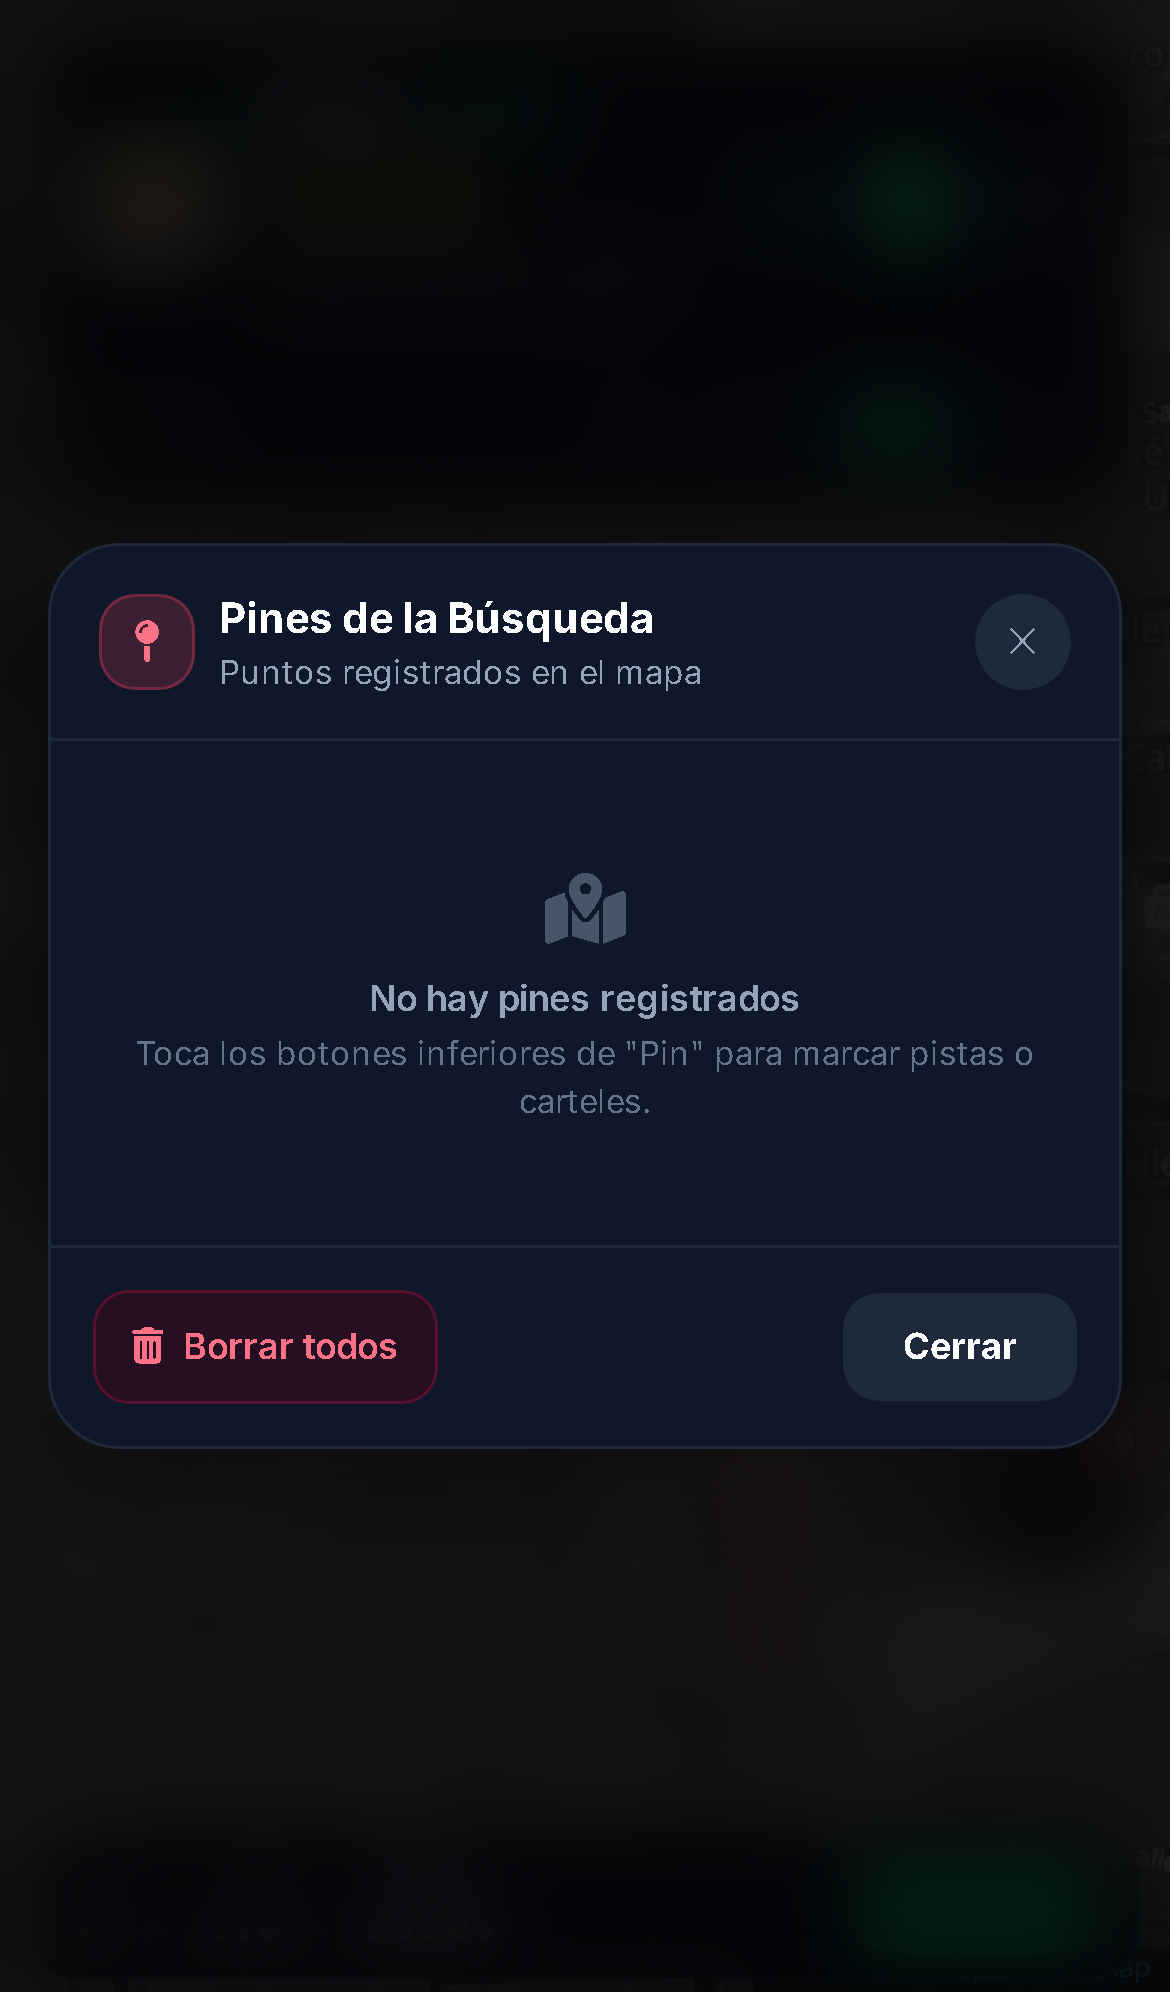
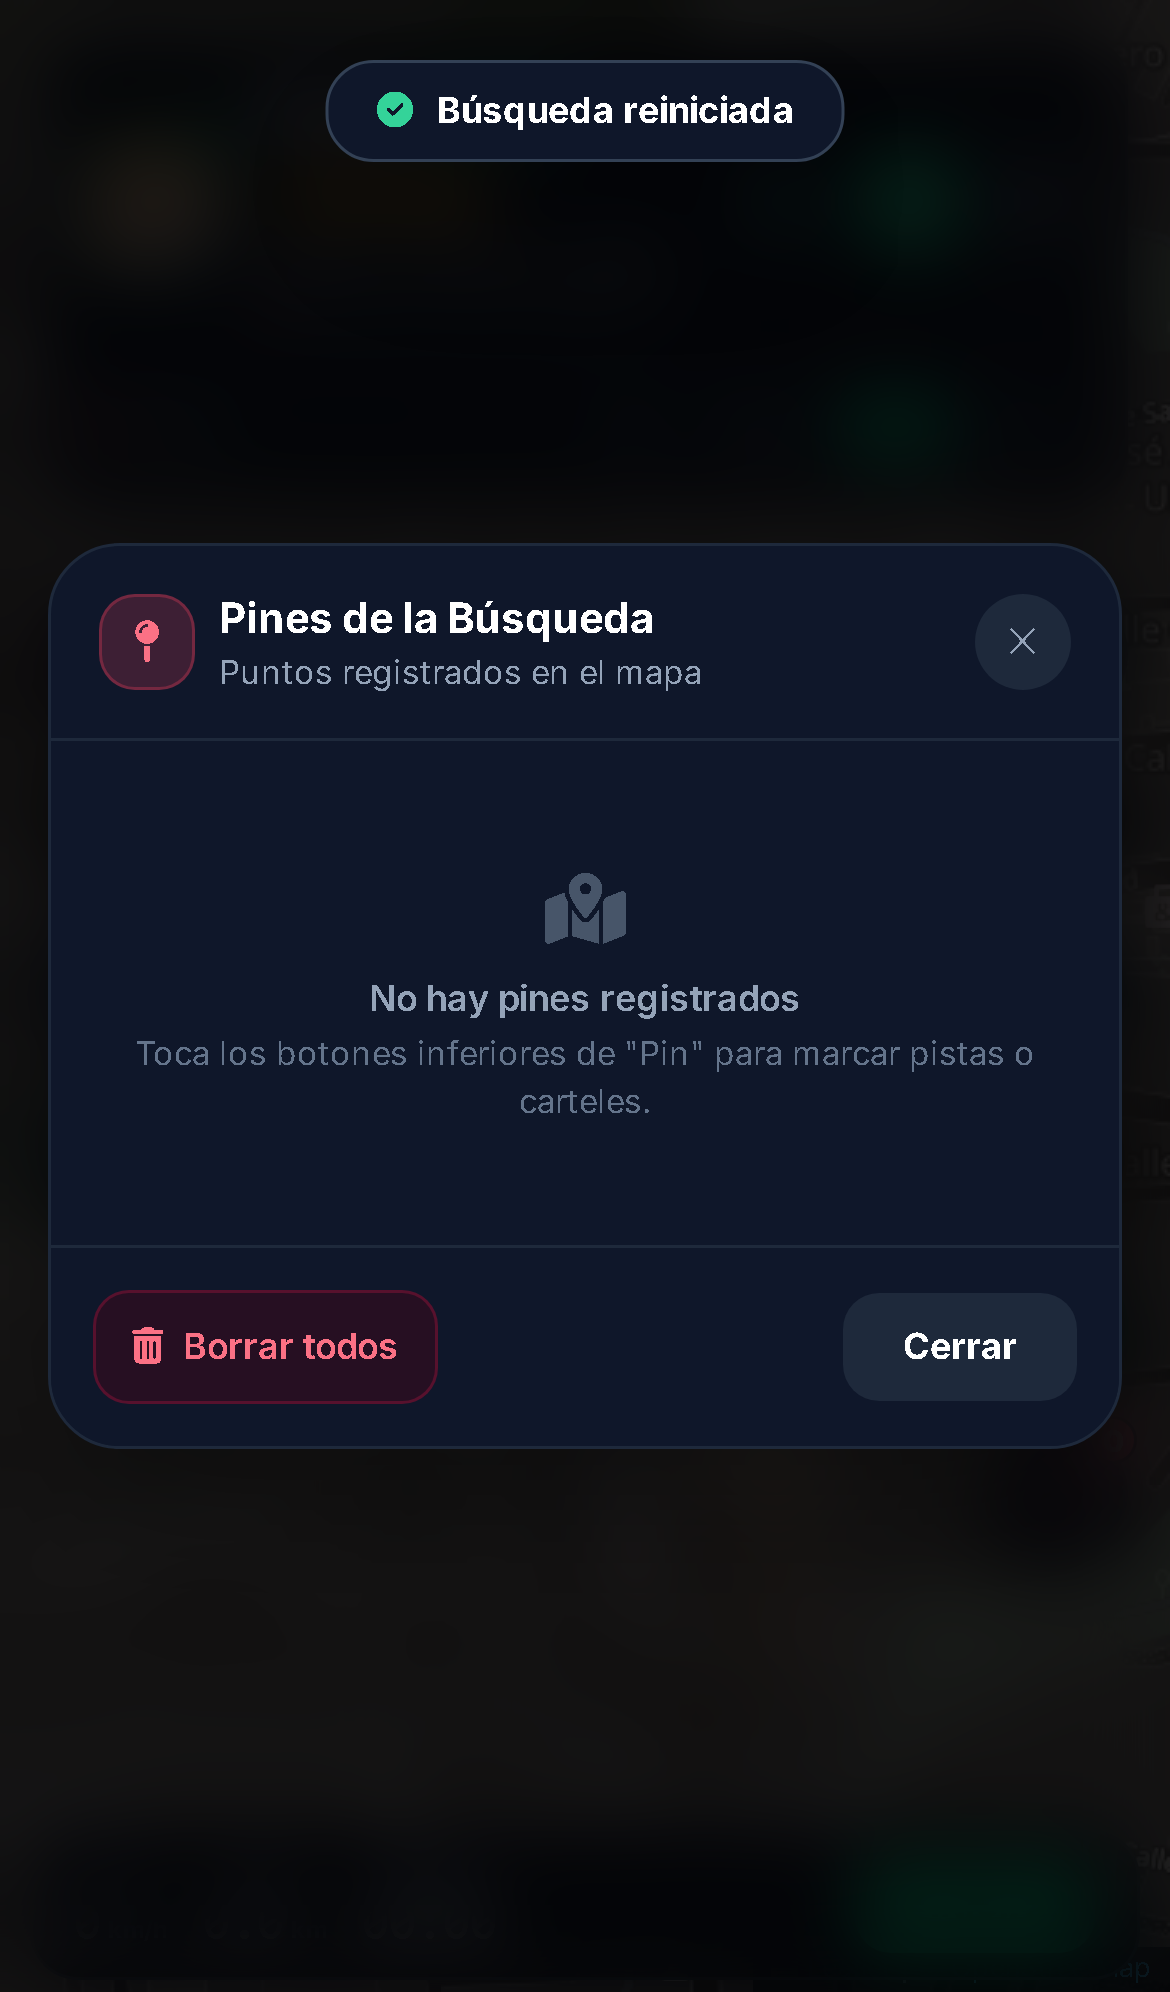
refactor: add Next.js page wrapper, public index asset, and improve GPS status helpers

Changed region(s): [[0.2769, 0.0311, 0.7385, 0.0934]]

diff --git a/index.html b/index.html
@@ -1410,6 +1410,34 @@
         showToast(meters === 0 ? 'Radio desactivado' : `Radio: ${meters >= 1000 ? (meters/1000) + ' km' : meters + ' m'}`);
       }
 
+      // Helpers seguros para indicadores opcionales
+      function setGPSStatus(status, text) {
+        const dot = document.getElementById('gpsIndicatorDot');
+        const txt = document.getElementById('gpsStatusText');
+        if (dot) {
+          if (status === 'active') dot.className = 'w-2 h-2 rounded-full bg-emerald-400 animate-ping';
+          else if (status === 'paused') dot.className = 'w-2 h-2 rounded-full bg-amber-400';
+          else if (status === 'error') dot.className = 'w-2 h-2 rounded-full bg-rose-500';
+          else dot.className = 'w-2 h-2 rounded-full bg-emerald-500';
+        }
+        if (txt) {
+          txt.innerText = text || '';
+        }
+      }
+
+      function setWakeLockBadge(active) {
+        const badge = document.getElementById('wakeLockBadge');
+        if (badge) {
+          if (active) {
+            badge.classList.remove('text-slate-500');
+            badge.classList.add('text-amber-400');
+          } else {
+            badge.classList.remove('text-amber-400');
+            badge.classList.add('text-slate-500');
+          }
+        }
+      }
+
       // ==========================================
       // RASTREO GPS EN MOTO
       // ==========================================
@@ -1439,8 +1467,7 @@
 
         document.getElementById('btnFinishTracking').classList.remove('hidden');
         document.getElementById('btnClearCurrentRoute').classList.remove('hidden');
-        document.getElementById('gpsIndicatorDot').className = 'w-2 h-2 rounded-full bg-emerald-400 animate-ping';
-        document.getElementById('gpsStatusText').innerText = 'Rastreando en vivo';
+        setGPSStatus('active', 'Rastreando en vivo');
 
         watchId = navigator.geolocation.watchPosition(
           handleGeolocationSuccess,
@@ -1459,8 +1486,7 @@
           watchId = null;
         }
         updateTrackingButtonUI();
-        document.getElementById('gpsIndicatorDot').className = 'w-2 h-2 rounded-full bg-amber-400';
-        document.getElementById('gpsStatusText').innerText = 'Pausado';
+        setGPSStatus('paused', 'Pausado');
         showToast('Búsqueda pausada');
       }
 
@@ -1477,8 +1503,7 @@
         );
 
         updateTrackingButtonUI();
-        document.getElementById('gpsIndicatorDot').className = 'w-2 h-2 rounded-full bg-emerald-400 animate-ping';
-        document.getElementById('gpsStatusText').innerText = 'Rastreando en vivo';
+        setGPSStatus('active', 'Rastreando en vivo');
         showToast('Búsqueda reanudada');
       }
 
@@ -1509,8 +1534,7 @@
       }
 
       function handleGeolocationError(err) {
-        document.getElementById('gpsIndicatorDot').className = 'w-2 h-2 rounded-full bg-rose-500';
-        document.getElementById('gpsStatusText').innerText = 'Error de GPS';
+        setGPSStatus('error', 'Error de GPS');
         showToast('No se pudo obtener señal GPS');
       }
 
@@ -1529,9 +1553,6 @@
             clearInterval(searchTimerInterval);
             releaseWakeLock();
 
-            isTracking = false;
-            isPaused = false;
-
             if (liveCoordinates.length >= 2) {
               saveRouteToHistory({
                 id: 'route_' + Date.now(),
@@ -1545,12 +1566,7 @@
             downloadRouteMapCapture();
 
             clearCurrentTrack(false);
-            updateTrackingButtonUI();
-
-            document.getElementById('btnFinishTracking').classList.add('hidden');
-            document.getElementById('btnClearCurrentRoute').classList.add('hidden');
-            document.getElementById('gpsIndicatorDot').className = 'w-2 h-2 rounded-full bg-emerald-500';
-            document.getElementById('gpsStatusText').innerText = 'Ruta guardada';
+            setGPSStatus('ready', 'Ruta guardada');
             showToast('¡Ruta guardada en el mapa!');
           }
         });
@@ -1710,11 +1726,12 @@
 
           updateTrackingButtonUI();
 
-          document.getElementById('btnFinishTracking').classList.add('hidden');
-          document.getElementById('btnClearCurrentRoute').classList.add('hidden');
-          document.getElementById('gpsIndicatorDot').className = 'w-2 h-2 rounded-full bg-emerald-500';
-          document.getElementById('gpsStatusText').innerText = 'GPS Granada Listo';
+          const btnFin = document.getElementById('btnFinishTracking');
+          const btnClear = document.getElementById('btnClearCurrentRoute');
+          if (btnFin) btnFin.classList.add('hidden');
+          if (btnClear) btnClear.classList.add('hidden');
 
+          setGPSStatus('ready', 'GPS Granada Listo');
           showToast('Búsqueda reiniciada');
         };
 
@@ -1767,8 +1784,7 @@
         try {
           if ('wakeLock' in navigator) {
             wakeLock = await navigator.wakeLock.request('screen');
-            document.getElementById('wakeLockBadge').classList.remove('text-slate-500');
-            document.getElementById('wakeLockBadge').classList.add('text-amber-400');
+            setWakeLockBadge(true);
           }
         } catch (err) {}
       }
@@ -1776,8 +1792,7 @@
       function releaseWakeLock() {
         if (wakeLock !== null) {
           wakeLock.release().then(() => { wakeLock = null; }).catch(() => {});
-          document.getElementById('wakeLockBadge').classList.remove('text-amber-400');
-          document.getElementById('wakeLockBadge').classList.add('text-slate-500');
+          setWakeLockBadge(false);
         }
       }
 
@@ -1861,8 +1876,7 @@
         btn.classList.add('bg-amber-500', 'text-slate-950');
         btn.querySelector('i').className = 'fa-solid fa-stop text-slate-950 text-base';
 
-        document.getElementById('gpsIndicatorDot').className = 'w-2 h-2 rounded-full bg-amber-400 animate-ping';
-        document.getElementById('gpsStatusText').innerText = 'Simulación activa';
+        setGPSStatus('paused', 'Simulación activa');
         document.getElementById('btnFinishTracking').classList.remove('hidden');
         document.getElementById('btnClearCurrentRoute').classList.remove('hidden');
 
@@ -1909,8 +1923,7 @@
         btn.querySelector('i').className = 'fa-solid fa-motorcycle text-amber-400 text-base';
 
         document.getElementById('metricSpeed').innerText = '0';
-        document.getElementById('gpsIndicatorDot').className = 'w-2 h-2 rounded-full bg-emerald-500';
-        document.getElementById('gpsStatusText').innerText = 'GPS Listo';
+        setGPSStatus('ready', 'GPS Listo');
         showToast('Simulación detenida');
       }
 
@@ -1936,7 +1949,11 @@
       function closeCustomConfirm(confirmed) {
         document.getElementById('customConfirmModal').classList.add('hidden');
         if (confirmed && customConfirmCallback) {
-          customConfirmCallback();
+          try {
+            customConfirmCallback();
+          } catch (err) {
+            console.error('Error al ejecutar confirmación:', err);
+          }
         }
         customConfirmCallback = null;
       }

diff --git a/public/index.html b/public/index.html
@@ -1410,6 +1410,34 @@
         showToast(meters === 0 ? 'Radio desactivado' : `Radio: ${meters >= 1000 ? (meters/1000) + ' km' : meters + ' m'}`);
       }
 
+      // Helpers seguros para indicadores opcionales
+      function setGPSStatus(status, text) {
+        const dot = document.getElementById('gpsIndicatorDot');
+        const txt = document.getElementById('gpsStatusText');
+        if (dot) {
+          if (status === 'active') dot.className = 'w-2 h-2 rounded-full bg-emerald-400 animate-ping';
+          else if (status === 'paused') dot.className = 'w-2 h-2 rounded-full bg-amber-400';
+          else if (status === 'error') dot.className = 'w-2 h-2 rounded-full bg-rose-500';
+          else dot.className = 'w-2 h-2 rounded-full bg-emerald-500';
+        }
+        if (txt) {
+          txt.innerText = text || '';
+        }
+      }
+
+      function setWakeLockBadge(active) {
+        const badge = document.getElementById('wakeLockBadge');
+        if (badge) {
+          if (active) {
+            badge.classList.remove('text-slate-500');
+            badge.classList.add('text-amber-400');
+          } else {
+            badge.classList.remove('text-amber-400');
+            badge.classList.add('text-slate-500');
+          }
+        }
+      }
+
       // ==========================================
       // RASTREO GPS EN MOTO
       // ==========================================
@@ -1439,8 +1467,7 @@
 
         document.getElementById('btnFinishTracking').classList.remove('hidden');
         document.getElementById('btnClearCurrentRoute').classList.remove('hidden');
-        document.getElementById('gpsIndicatorDot').className = 'w-2 h-2 rounded-full bg-emerald-400 animate-ping';
-        document.getElementById('gpsStatusText').innerText = 'Rastreando en vivo';
+        setGPSStatus('active', 'Rastreando en vivo');
 
         watchId = navigator.geolocation.watchPosition(
           handleGeolocationSuccess,
@@ -1459,8 +1486,7 @@
           watchId = null;
         }
         updateTrackingButtonUI();
-        document.getElementById('gpsIndicatorDot').className = 'w-2 h-2 rounded-full bg-amber-400';
-        document.getElementById('gpsStatusText').innerText = 'Pausado';
+        setGPSStatus('paused', 'Pausado');
         showToast('Búsqueda pausada');
       }
 
@@ -1477,8 +1503,7 @@
         );
 
         updateTrackingButtonUI();
-        document.getElementById('gpsIndicatorDot').className = 'w-2 h-2 rounded-full bg-emerald-400 animate-ping';
-        document.getElementById('gpsStatusText').innerText = 'Rastreando en vivo';
+        setGPSStatus('active', 'Rastreando en vivo');
         showToast('Búsqueda reanudada');
       }
 
@@ -1509,8 +1534,7 @@
       }
 
       function handleGeolocationError(err) {
-        document.getElementById('gpsIndicatorDot').className = 'w-2 h-2 rounded-full bg-rose-500';
-        document.getElementById('gpsStatusText').innerText = 'Error de GPS';
+        setGPSStatus('error', 'Error de GPS');
         showToast('No se pudo obtener señal GPS');
       }
 
@@ -1529,9 +1553,6 @@
             clearInterval(searchTimerInterval);
             releaseWakeLock();
 
-            isTracking = false;
-            isPaused = false;
-
             if (liveCoordinates.length >= 2) {
               saveRouteToHistory({
                 id: 'route_' + Date.now(),
@@ -1545,12 +1566,7 @@
             downloadRouteMapCapture();
 
             clearCurrentTrack(false);
-            updateTrackingButtonUI();
-
-            document.getElementById('btnFinishTracking').classList.add('hidden');
-            document.getElementById('btnClearCurrentRoute').classList.add('hidden');
-            document.getElementById('gpsIndicatorDot').className = 'w-2 h-2 rounded-full bg-emerald-500';
-            document.getElementById('gpsStatusText').innerText = 'Ruta guardada';
+            setGPSStatus('ready', 'Ruta guardada');
             showToast('¡Ruta guardada en el mapa!');
           }
         });
@@ -1710,11 +1726,12 @@
 
           updateTrackingButtonUI();
 
-          document.getElementById('btnFinishTracking').classList.add('hidden');
-          document.getElementById('btnClearCurrentRoute').classList.add('hidden');
-          document.getElementById('gpsIndicatorDot').className = 'w-2 h-2 rounded-full bg-emerald-500';
-          document.getElementById('gpsStatusText').innerText = 'GPS Granada Listo';
+          const btnFin = document.getElementById('btnFinishTracking');
+          const btnClear = document.getElementById('btnClearCurrentRoute');
+          if (btnFin) btnFin.classList.add('hidden');
+          if (btnClear) btnClear.classList.add('hidden');
 
+          setGPSStatus('ready', 'GPS Granada Listo');
           showToast('Búsqueda reiniciada');
         };
 
@@ -1767,8 +1784,7 @@
         try {
           if ('wakeLock' in navigator) {
             wakeLock = await navigator.wakeLock.request('screen');
-            document.getElementById('wakeLockBadge').classList.remove('text-slate-500');
-            document.getElementById('wakeLockBadge').classList.add('text-amber-400');
+            setWakeLockBadge(true);
           }
         } catch (err) {}
       }
@@ -1776,8 +1792,7 @@
       function releaseWakeLock() {
         if (wakeLock !== null) {
           wakeLock.release().then(() => { wakeLock = null; }).catch(() => {});
-          document.getElementById('wakeLockBadge').classList.remove('text-amber-400');
-          document.getElementById('wakeLockBadge').classList.add('text-slate-500');
+          setWakeLockBadge(false);
         }
       }
 
@@ -1861,8 +1876,7 @@
         btn.classList.add('bg-amber-500', 'text-slate-950');
         btn.querySelector('i').className = 'fa-solid fa-stop text-slate-950 text-base';
 
-        document.getElementById('gpsIndicatorDot').className = 'w-2 h-2 rounded-full bg-amber-400 animate-ping';
-        document.getElementById('gpsStatusText').innerText = 'Simulación activa';
+        setGPSStatus('paused', 'Simulación activa');
         document.getElementById('btnFinishTracking').classList.remove('hidden');
         document.getElementById('btnClearCurrentRoute').classList.remove('hidden');
 
@@ -1909,8 +1923,7 @@
         btn.querySelector('i').className = 'fa-solid fa-motorcycle text-amber-400 text-base';
 
         document.getElementById('metricSpeed').innerText = '0';
-        document.getElementById('gpsIndicatorDot').className = 'w-2 h-2 rounded-full bg-emerald-500';
-        document.getElementById('gpsStatusText').innerText = 'GPS Listo';
+        setGPSStatus('ready', 'GPS Listo');
         showToast('Simulación detenida');
       }
 
@@ -1936,7 +1949,11 @@
       function closeCustomConfirm(confirmed) {
         document.getElementById('customConfirmModal').classList.add('hidden');
         if (confirmed && customConfirmCallback) {
-          customConfirmCallback();
+          try {
+            customConfirmCallback();
+          } catch (err) {
+            console.error('Error al ejecutar confirmación:', err);
+          }
         }
         customConfirmCallback = null;
       }

diff --git a/app/page.tsx b/app/page.tsx
@@ -12,7 +12,7 @@ export default function Home() {
       }}
     >
       <iframe
-        src="/index.html?v=13"
+        src="/index.html?v=14"
         style={{ width: "100%", height: "100%", border: "none" }}
         allow="geolocation; camera; accelerometer; gyroscope"
         title="HuellaGPS - Nicaragua"
